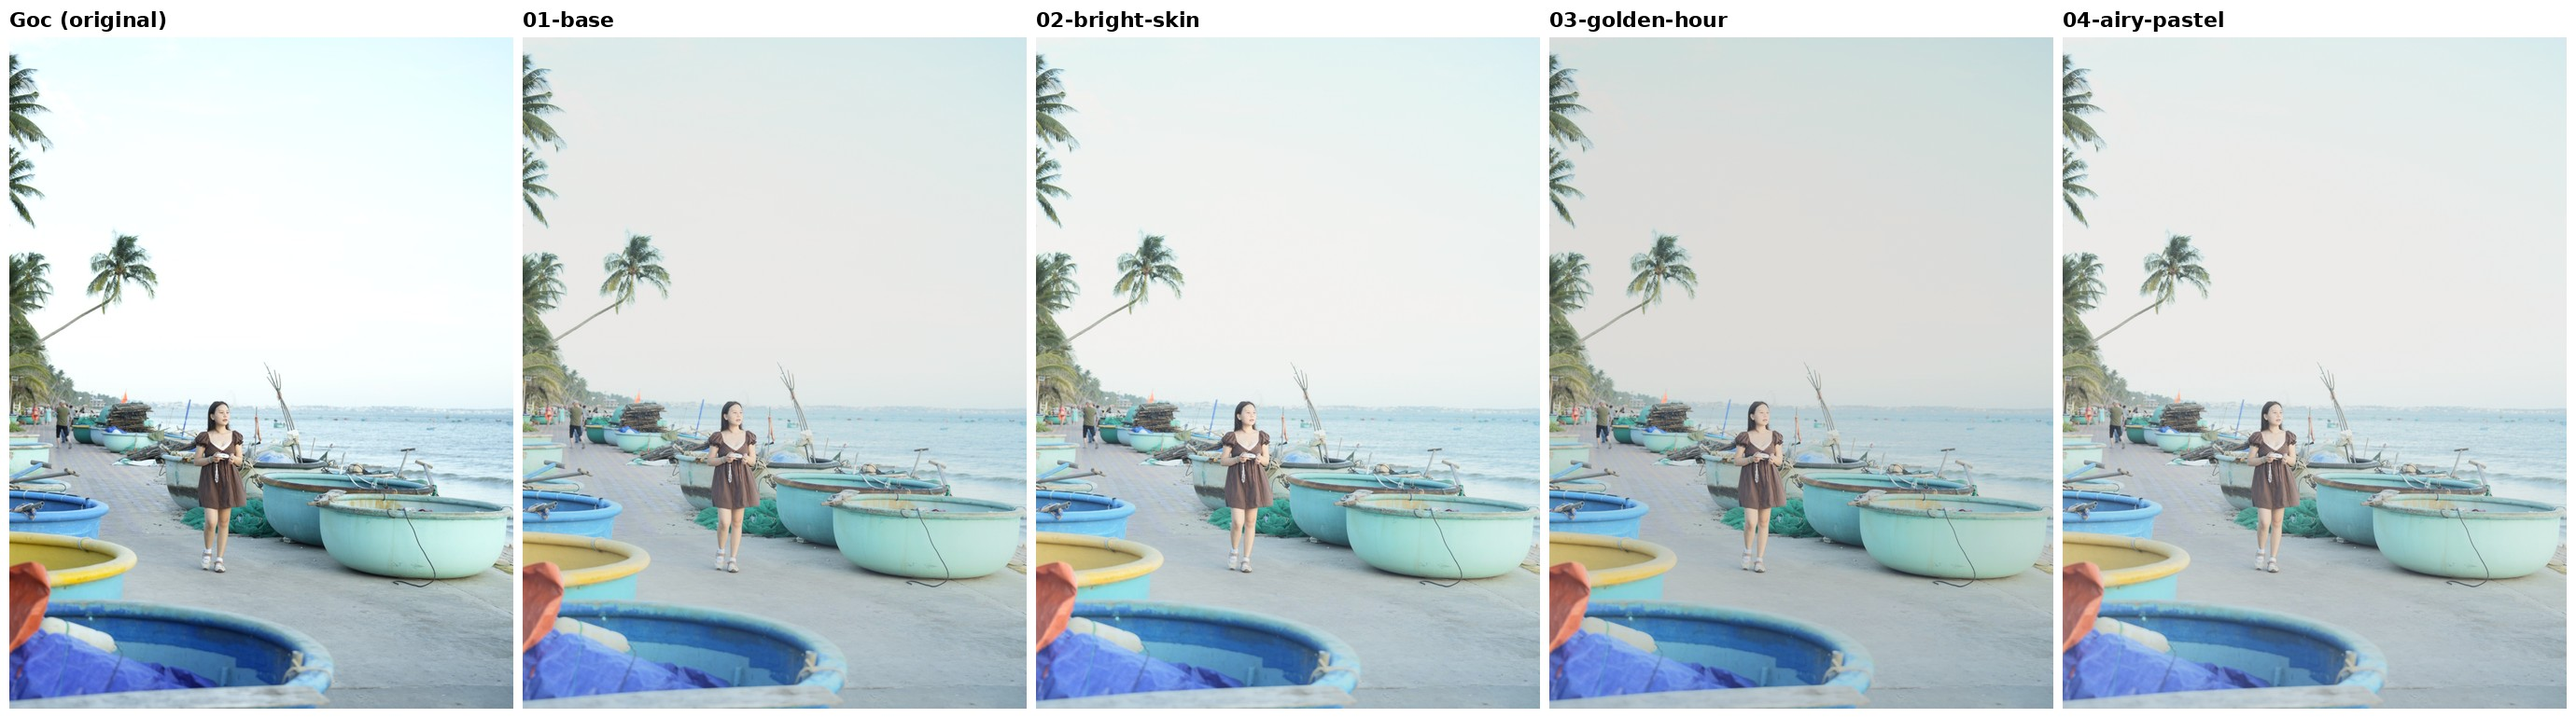
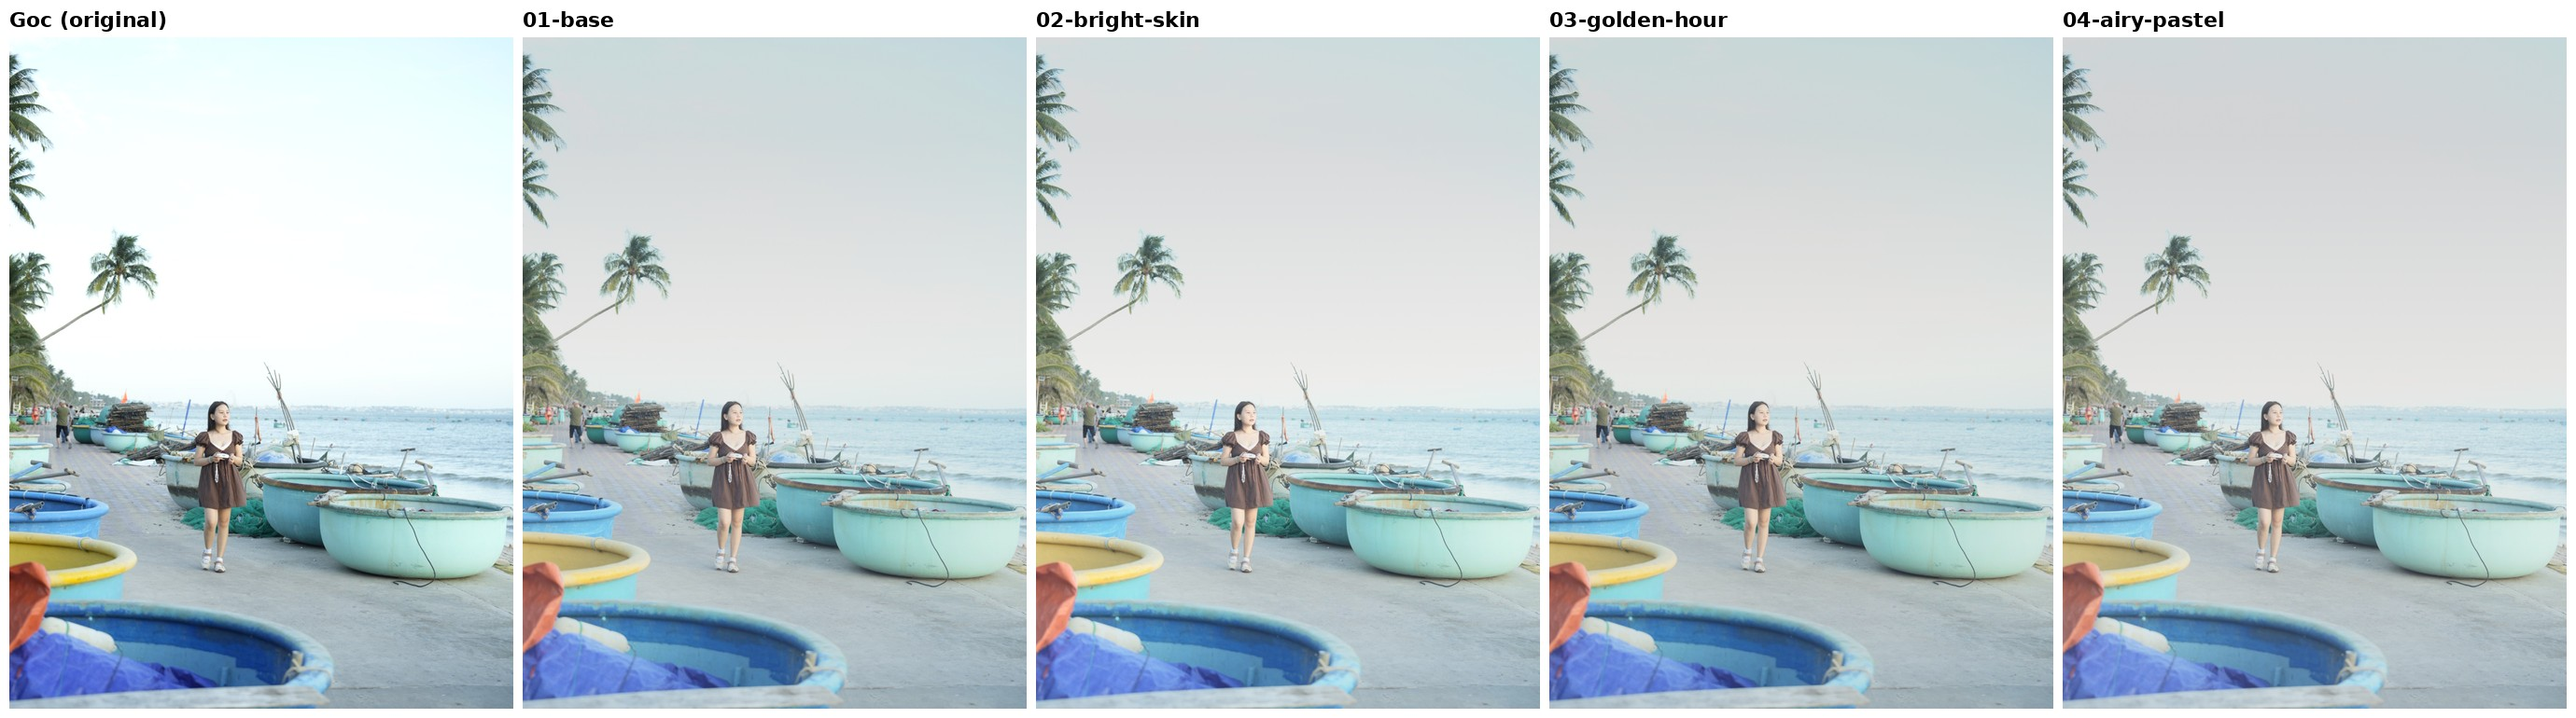
Stronger highlight recovery and balanced exposure, add sky gradient mask
Claude-Session: https://claude.ai/code/session_01TtGqmarwwzuoBRjg7Se1Mp

Changed region(s): [[0.4051, 0.0623, 0.592, 0.2182], [0.8101, 0.0312, 0.9971, 0.2182]]

diff --git a/presets/fuji-clear-sea-a7iv/HUONG-DAN.md b/presets/fuji-clear-sea-a7iv/HUONG-DAN.md
@@ -17,8 +17,9 @@ Tone biển kiểu máy Fuji: trong veo, sạch, da sáng hồng nhẹ, nước 
 
 ## Thông số chính (bản Base)
 - **Profile:** Adobe Standard (có thể thử *Camera Neutral* nếu muốn trong hơn nữa)
-- **Light:** Exposure +0.35 · Contrast −12 · Highlights −45 · Shadows +35 · Whites +22 · Blacks −6
-- **Presence:** Texture −8 · Clarity −6 · Dehaze +6 · Vibrance +12 · Saturation −6
+- **Light (kéo cứu cháy + trải sáng đều):** Exposure +0.30 · Contrast −15 · Highlights −75 · Shadows +45 · Whites +8 · Blacks −4
+- **Parametric curve:** Highlights −12 · Lights +8 · Darks +6 · Shadows +6 (ép vùng sáng xuống, mở vùng tối lên cho cân)
+- **Presence:** Texture −8 · Clarity −6 · Dehaze +8 · Vibrance +12 · Saturation −6
 - **Tone Curve:** nâng điểm đen (0→10) tạo độ "film", hạ nhẹ điểm trắng (255→253); kênh Blue chỉ nâng shadow (0→6), giữ nguyên điểm trắng để trời không ám xanh rêu
 - **HSL:**
   - Đỏ/Cam: Cam Hue −5, Sat −12, Lum +16 → **da sáng, hồng, không vàng**
@@ -30,6 +31,7 @@ Tone biển kiểu máy Fuji: trong veo, sạch, da sáng hồng nhẹ, nước 
 - **Calibration:** Red +8/+6 · Green −12/−8 · Blue −18/+18 (đặc trưng màu Fuji)
 - **Detail:** Sharpen 40 / 1.0 / 25 / Masking 45 · NR Luminance 8 · Color 25
 - **Grain:** 10 / 18 / 45 (hạt rất mịn)
+- **Gradient bầu trời có sẵn trong preset** (Linear Gradient từ mép trên xuống ~55% khung): Exposure −0.10 · Highlights −25 · Whites −5 · Dehaze +8 · Temp −5 · Sat +5 → cứu trời cháy, giữ chút xanh. Ảnh dọc/ngang khác nhau thì vào Masking kéo lại vị trí gradient cho khớp đường chân trời; ảnh không có trời thì xoá mask này.
 - **Lens:** bật Profile Correction + Remove Chromatic Aberration
 
 ## Quy trình chỉnh sâu sau khi áp preset
@@ -39,11 +41,11 @@ Tone biển kiểu máy Fuji: trong veo, sạch, da sáng hồng nhẹ, nước 
 3. **Mask da (quan trọng để da sáng):** Masking → *Select People* → tick *Face Skin + Body Skin*:
    - Exposure +0.20 đến +0.35 · Texture −15 · Clarity −5
    - Saturation −5 · Temp −3 (bớt vàng) · Tint +3 (hồng nhẹ)
-4. **Mask bầu trời:** *Select Sky* → Highlights −20, Temp −5, Dehaze +5 để trời giữ lại chút xanh, không bị trắng bệt.
+4. **Bầu trời:** preset đã có gradient trời. Nếu trời vẫn còn cháy → *Select Sky* thêm Highlights −20, Whites −10. Nếu trời bị xám → tăng Exposure của gradient lên 0 hoặc +0.10.
 5. **Mask chủ thể** (*Select Subject*): Exposure +0.10, Whites +5 giúp người nổi khỏi nền.
 6. Nếu biển quá xanh lá → HSL Aqua Hue kéo thêm về −15/−20; nếu da hơi đỏ → Red Sat −10.
 
 ## Mẹo chụp trên Sony A7IV để preset ăn đẹp nhất
 - Chụp RAW (Uncompressed hoặc Lossless Compressed), DRO tắt.
-- Đo sáng ưu tiên da (Face priority), chấp nhận trời hơi cháy – preset có Highlights −45 để kéo lại.
+- Đo sáng ưu tiên da (Face priority), chấp nhận trời hơi cháy – preset có Highlights −75 + gradient trời để kéo lại.
 - Ảnh ngược sáng/chiều muộn: dùng bản **03 Golden Hour**; trời trưa nắng gắt: dùng **01 Base** hoặc **04 Airy**.
